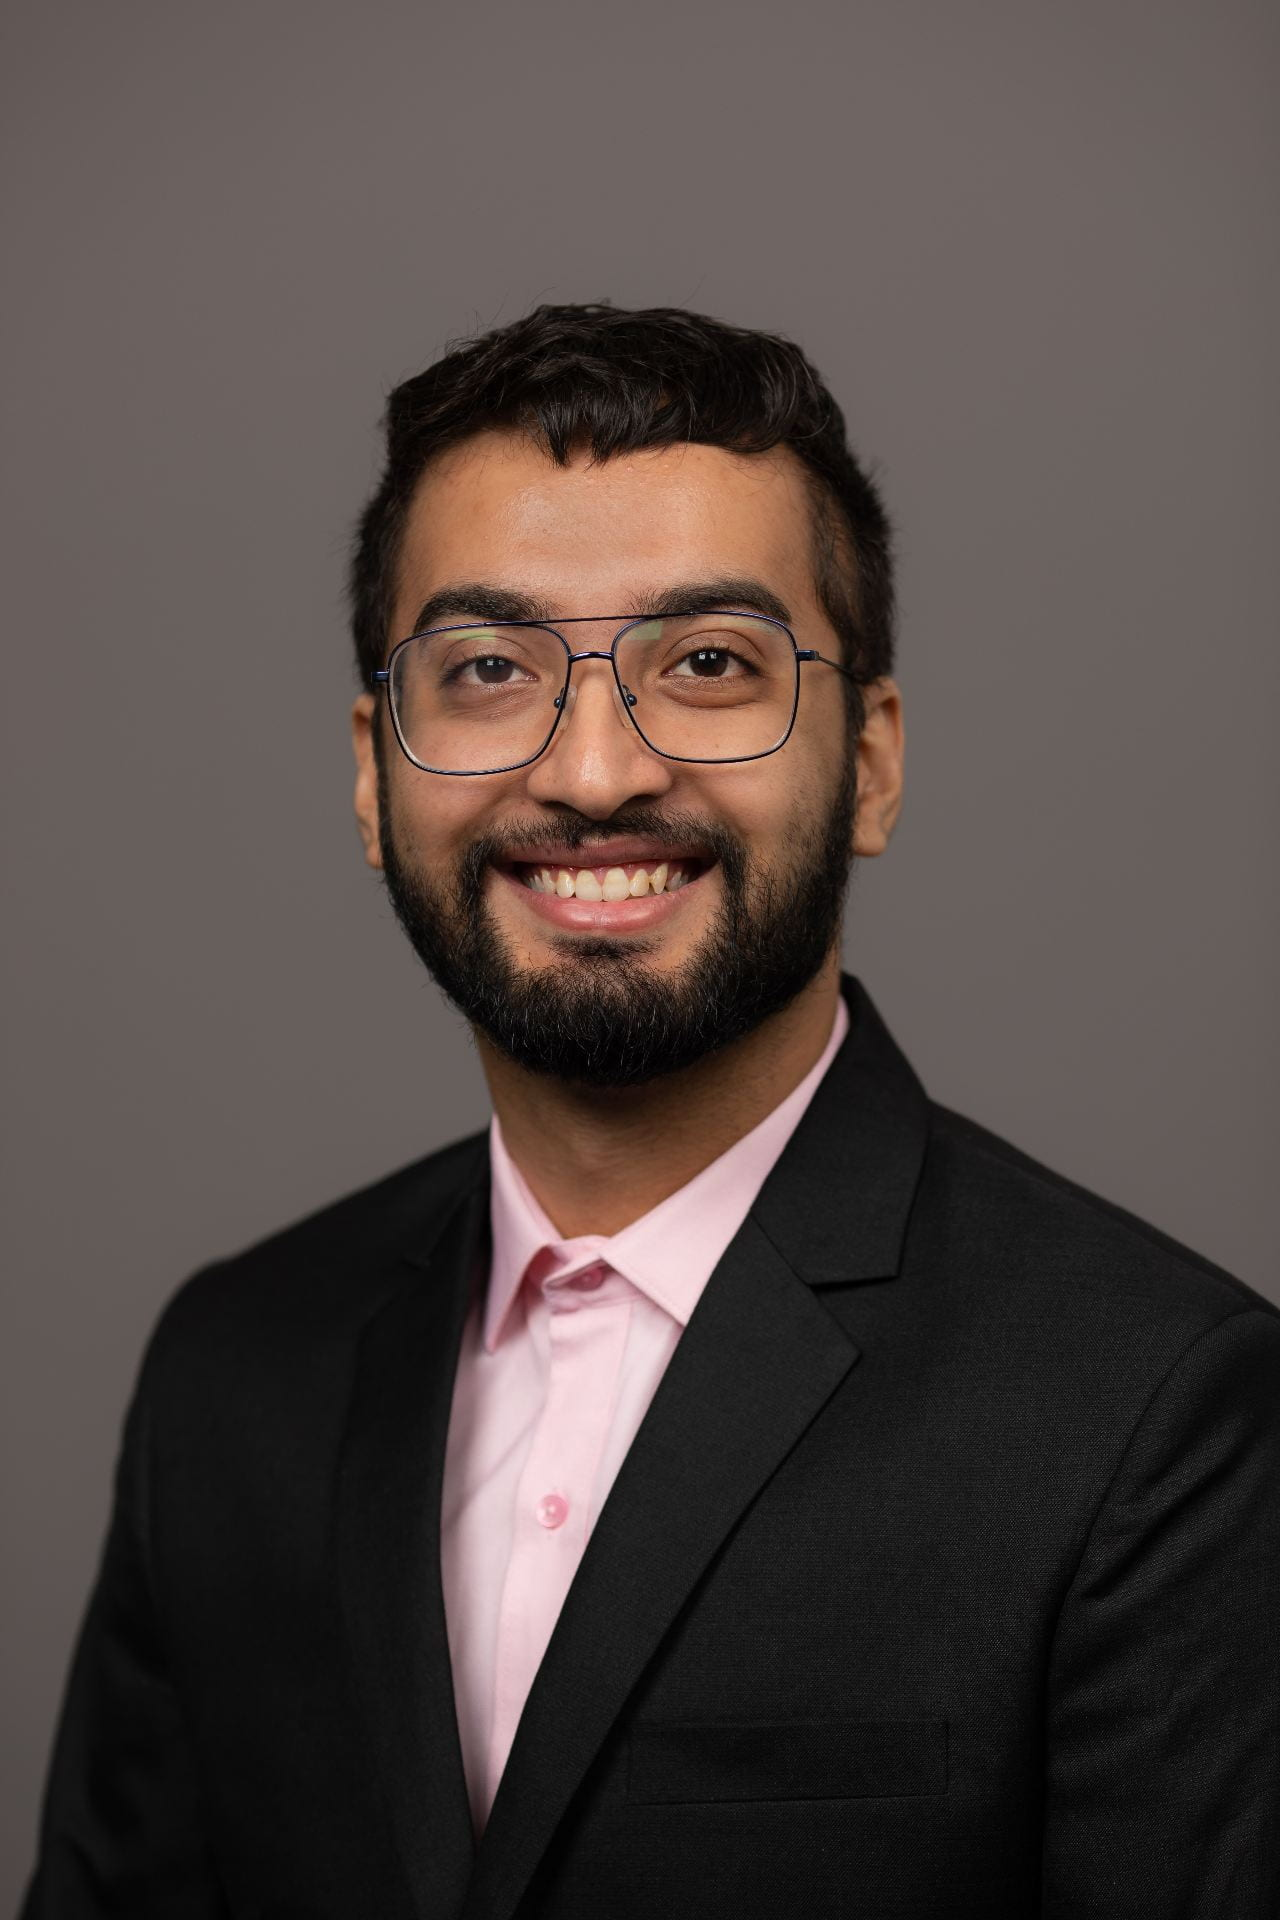
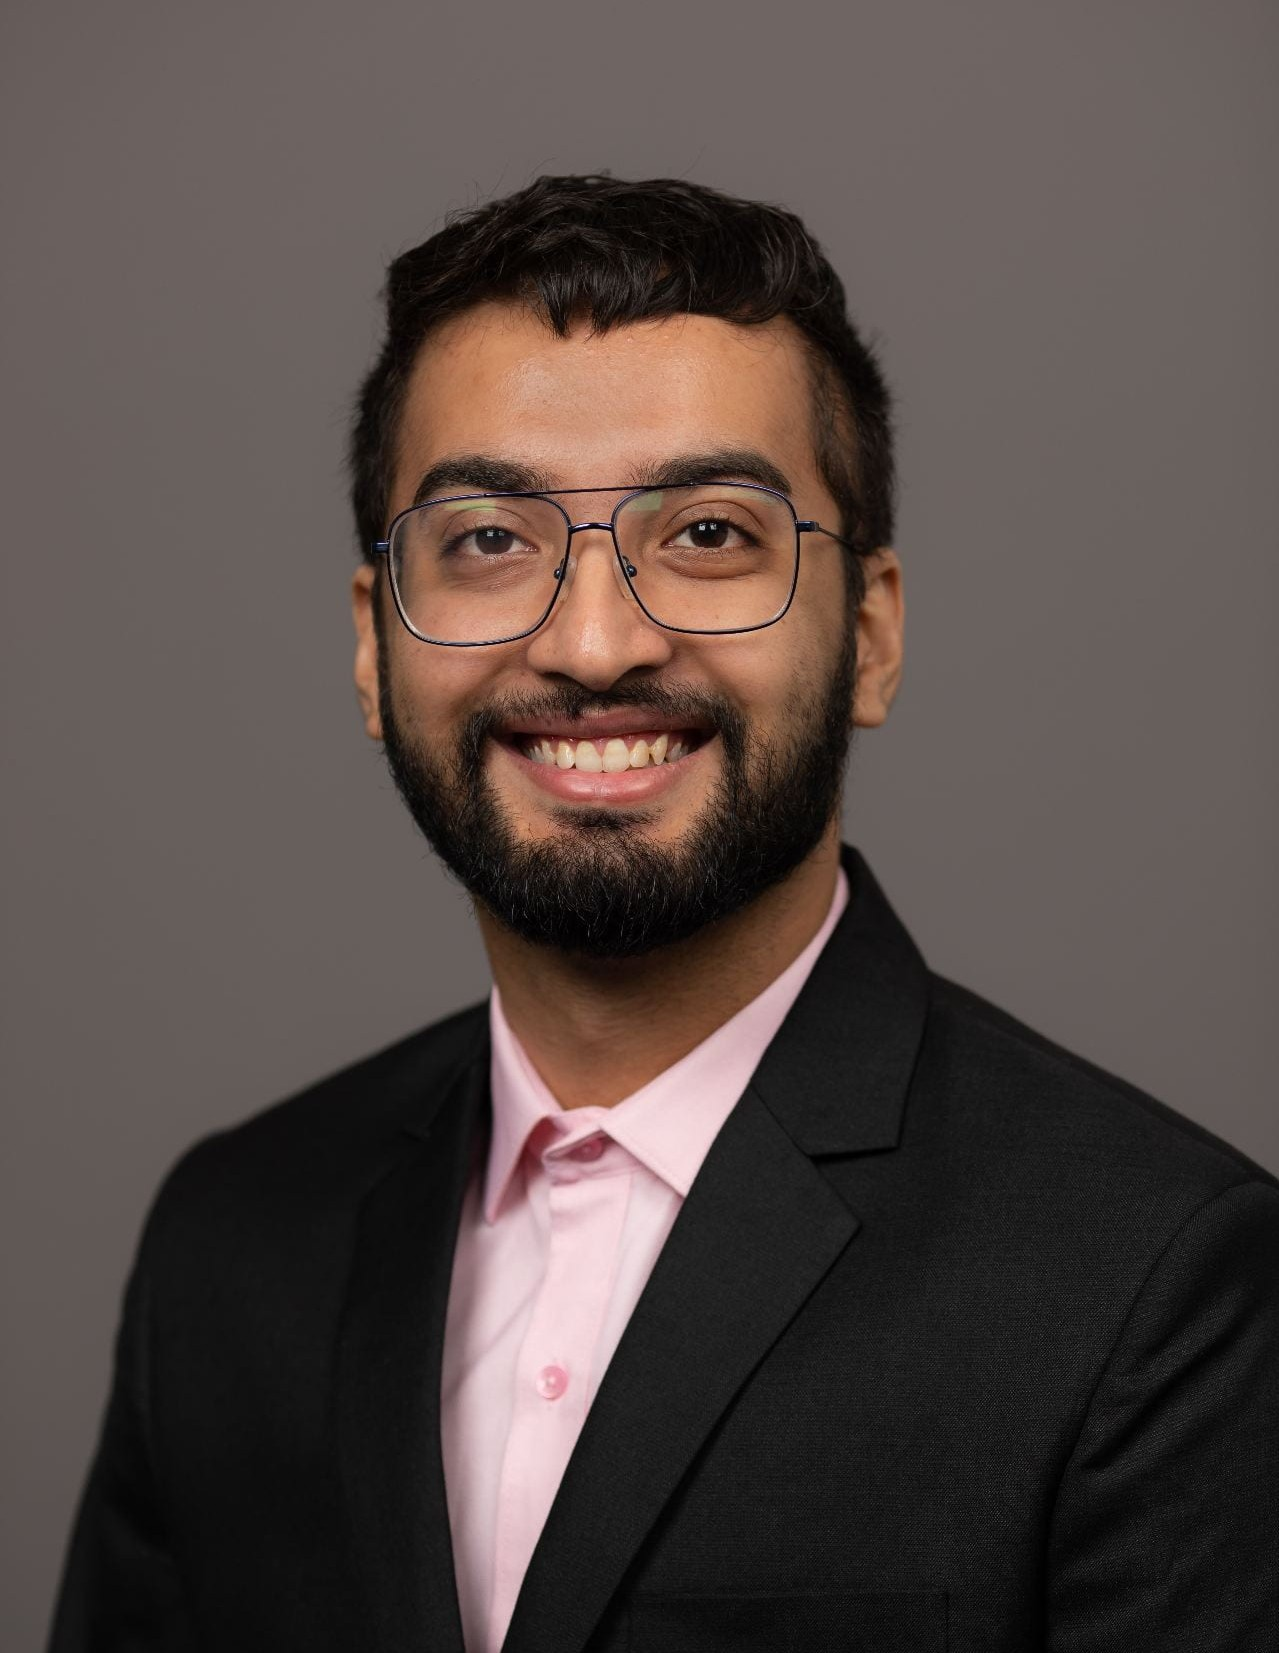
profile_pic_update- prev was too long

diff --git a/_pages/home.md b/_pages/home.md
@@ -28,11 +28,3 @@ Education
 
 [![Hits](https://hits.seeyoufarm.com/api/count/incr/badge.svg?url=https%3A%2F%2Famritpal-001.github.io&count_bg=%2379C83D&title_bg=%23555555&icon=&icon_color=%23E7E7E7&title=Page+Visits&edge_flat=false)](https://hits.seeyoufarm.com)
 
-  
-
-  <script src="/js/scramble.js"></script>
-  <script>emailScramble = new scrambledString(document.getElementById('email'), 'emailScramble', 'dun@euuygbar.', [12, 9, 7, 6, 11, 13, 2, 8, 3, 1, 5, 4, 10]);
-  </script>
-    <script src="/js/logo.js"></script>
-    <script src="https://d3js.org/d3.v3.min.js"></script>
-    <script type="text/javascript">init();</script>

diff --git a/_pages/about.md b/_pages/about.md
@@ -42,11 +42,5 @@ Teaching
 
 Hobbies
 =======
-When not working on project, amrit works on oil painting, charcoal sketches. He has 
+When not working on project, amrit creates on oil painting, charcoal sketches. He works on mid-size to human sized canvases. 
 <img src="/images/hobbies/all_artworks.png" alt="Normal" height=200/> 
-
-
-Previous blogs
-==============
-* Wordpress blog : https://amritpal001.wordpress.com/
-* Wix blog : https://zubabin.wixsite.com/amritpal
